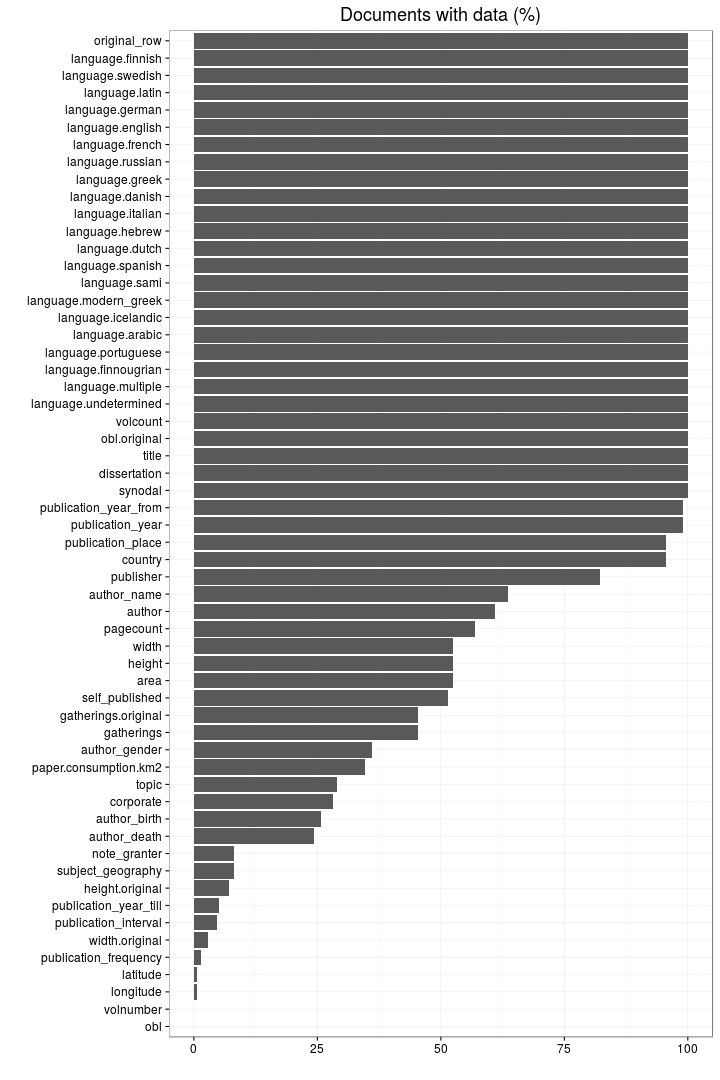
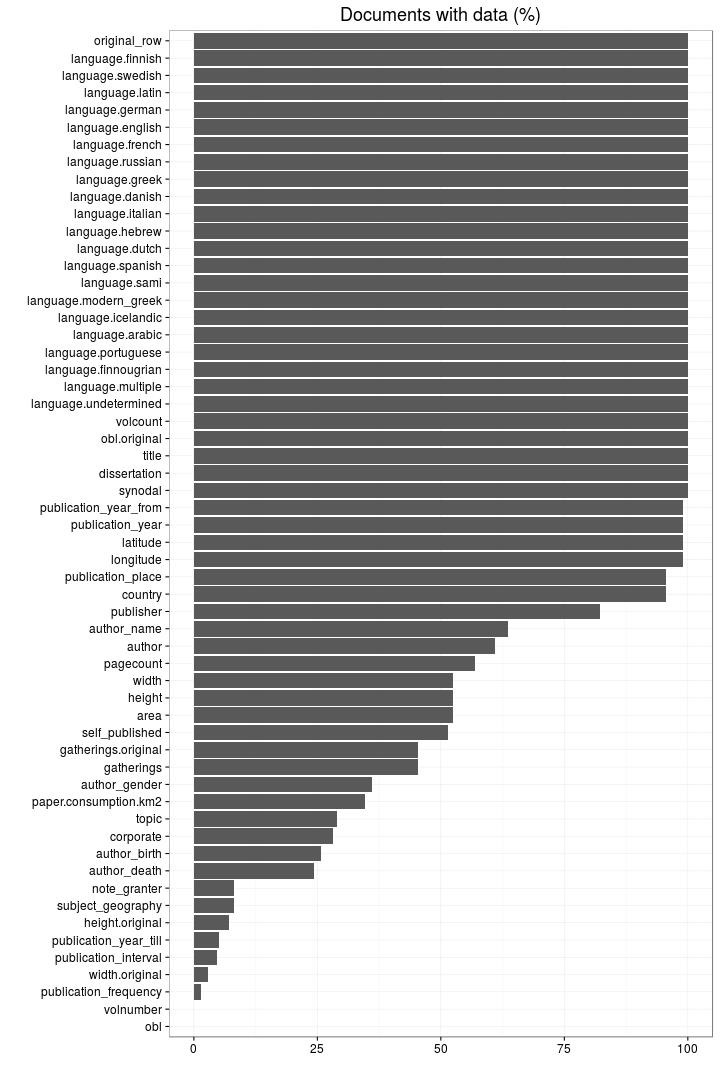
Geoc update on vignette

Changed region(s): [[0.0611, 0.4889, 0.2444, 0.9472], [0.3056, 0.4889, 0.9472, 0.8556], [0.275, 0.8556, 0.3056, 0.9167]]

diff --git a/inst/examples/summary.md b/inst/examples/summary.md
@@ -1,7 +1,7 @@
 ---
 title: "Summary"
 author: "Leo Lahti and Niko Ilomäki"
-date: "Feb 3, 2016"
+date: "Feb 24, 2016"
 output: markdown_document
 ---
 
@@ -191,3 +191,12 @@ Top-50 geographical places are shown together with the number of documents assig
 
 
 [Complete geoplace listing](https://github.com/rOpenGov/fennica/blob/master/inst/examples/output.tables/geoplaces.csv)
+
+
+## Geocoordinates for publication places
+
+Altogether ``1.0205926`` places have missing geocoordinates:
+
+[Places with missing geocoordinates](https://github.com/rOpenGov/fennica/blob/master/inst/examples/output.tables/missing_geocoordinates.csv)
+
+

diff --git a/inst/examples/Helsinki.md b/inst/examples/Helsinki.md
@@ -1,7 +1,7 @@
 ---
 title: "Julkaisutoiminta Helsingissä 1746-1917"
 author: "Niko Ilomäki"
-date: "2016-02-09"
+date: "2016-02-23"
 output: markdown_document
 ---
 

diff --git a/inst/examples/Suomi.md b/inst/examples/Suomi.md
@@ -1,7 +1,7 @@
 ---
 title: "Julkaisutoiminta Suomessa 1640-1917"
 author: "Niko Ilomäki"
-date: "2016-02-09"
+date: "2016-02-23"
 output: markdown_document
 ---
 

diff --git a/inst/examples/Vaasa.md b/inst/examples/Vaasa.md
@@ -1,7 +1,7 @@
 ---
 title: "Julkaisutoiminta Vaasassa 1764-1917"
 author: "Niko Ilomäki"
-date: "2016-02-09"
+date: "2016-02-23"
 output: markdown_document
 ---
 

diff --git a/inst/examples/Turku.md b/inst/examples/Turku.md
@@ -1,7 +1,7 @@
 ---
 title: "Julkaisutoiminta Turussa 1640-1917"
 author: "Niko Ilomäki"
-date: "2016-02-09"
+date: "2016-02-23"
 output: markdown_document
 ---
 

diff --git a/inst/examples/suvut.md b/inst/examples/suvut.md
@@ -1,7 +1,7 @@
 ---
 title: "Suvut"
 author: "Niko Ilomäki"
-date: "2016-02-09"
+date: "2016-02-23"
 output: markdown_document
 ---
 
